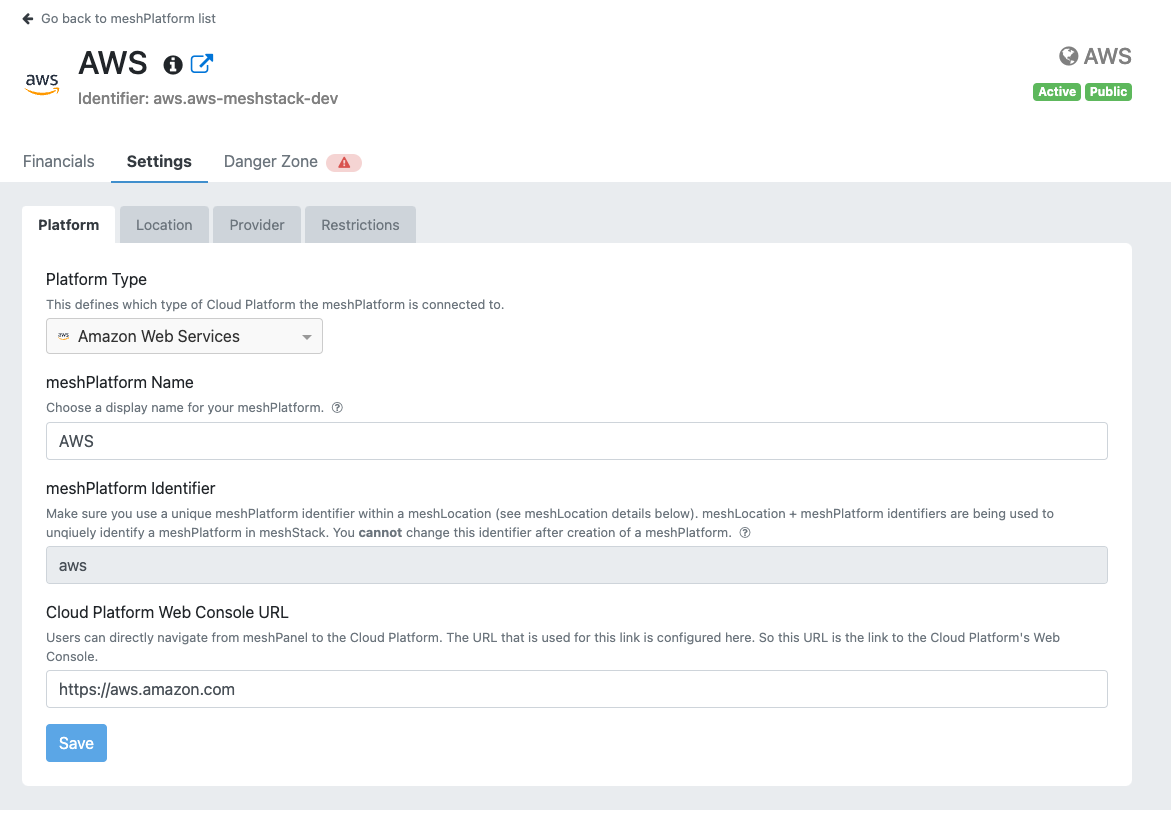
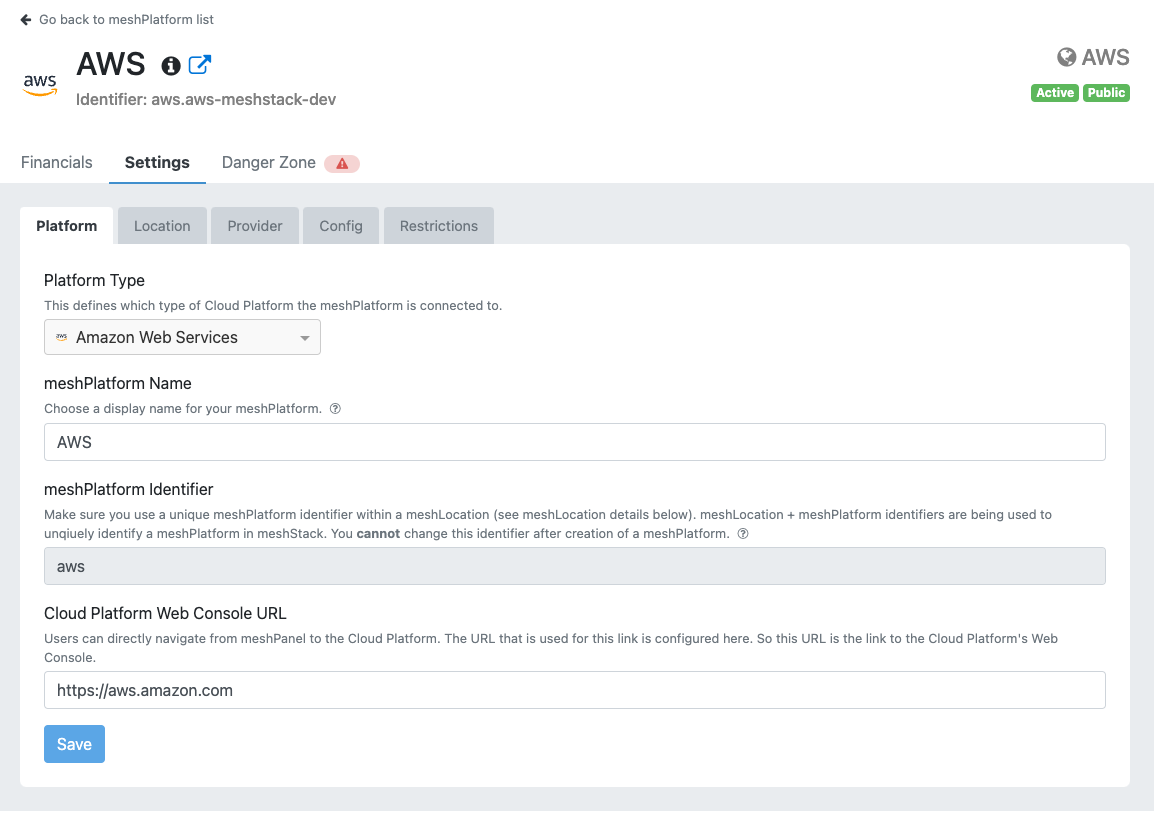
add platform connection config docs

diff --git a/docs/administration.platforms.md b/docs/administration.platforms.md
@@ -55,6 +55,23 @@ For public cloud platforms, we recommend to name them according to the provider 
 Additionally you can provide some provider information of your meshLocation. You can describe how you operate your Cloud Platforms that belong to a meshLocation,
 you can provide a link to a Wiki to provide further, more detailed information about your meshPlatforms within a meshLocation.
 
+#### Platform Connection Config
+
+When integrating a cloud platform into meshStack you have to enter some specific configuration so meshStack knows how to handle the platform. This relates to replication as well as metering configuration. A central aspect of it is defining how to connect to your cloud platform. For public cloud platforms you have to provide some kind of root account all tenants managed by meshStack are living in. This is for example an AWS Root Account, a GCP Billing Account or an Azure Tenant. For private cloud platforms you usually have to provide an endpoint for the API meshStack will communicate with to manage tenants. In all cases you have to provide some kind of credentials so meshStack can perform the actions needed for replication and metering. You can find details about how to set up the cloud platform with credentials and more in the platform-specific [How to integrate a meshPlatform into meshStack](meshstack.how-to.integrate-meshplatform.md) guide.
+
+The following list provides the most common configurations available for different cloud platform types:
+
+* Credentials and connection attributes for replication and metering
+* Role Mappings for mapping Project Roles in meshStack to specific roles in the cloud platform
+* Naming of platform tenants (e.g. AWS Account or Azure Subscription) via [String Templates](meshstack.replication-configuration.md#string-templating)
+* Naming via [String Templates](meshstack.replication-configuration.md#string-templating) of platform IAM groups created by meshStack to provide users access to their tenants 
+* [Tag Configuration](meshstack.metadata-tags.md#tags-in-cloud-tenants) for platform tenants and resources (e.g. add customer and project identifier as a tag to the platform tenant)
+* platform-specific additional configuration
+
+As an example you can find a part of the GCP configuration in the following image:
+
+![GCP Connection Configuration](assets/platform_maintenance/gcp-config.png)
+
 #### Restrict Platform Access
 
 Access to a specific meshPlatform can be restricted via the "Restrictions" tab. This feature is helpful
